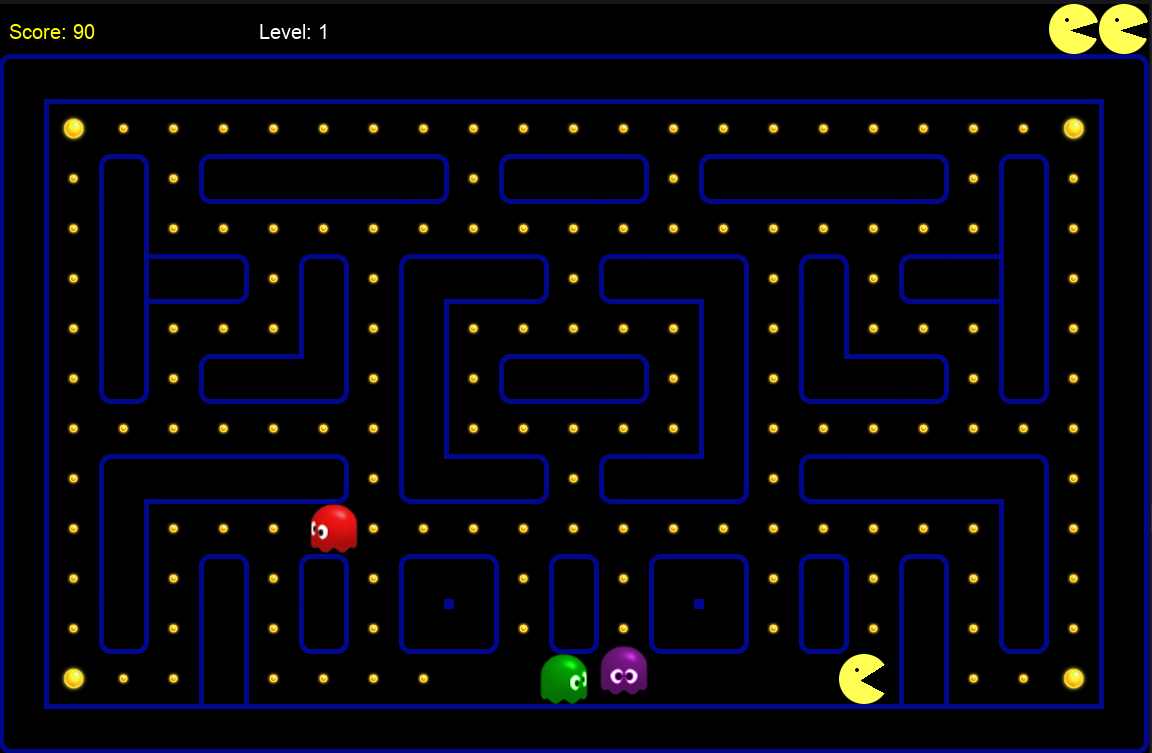
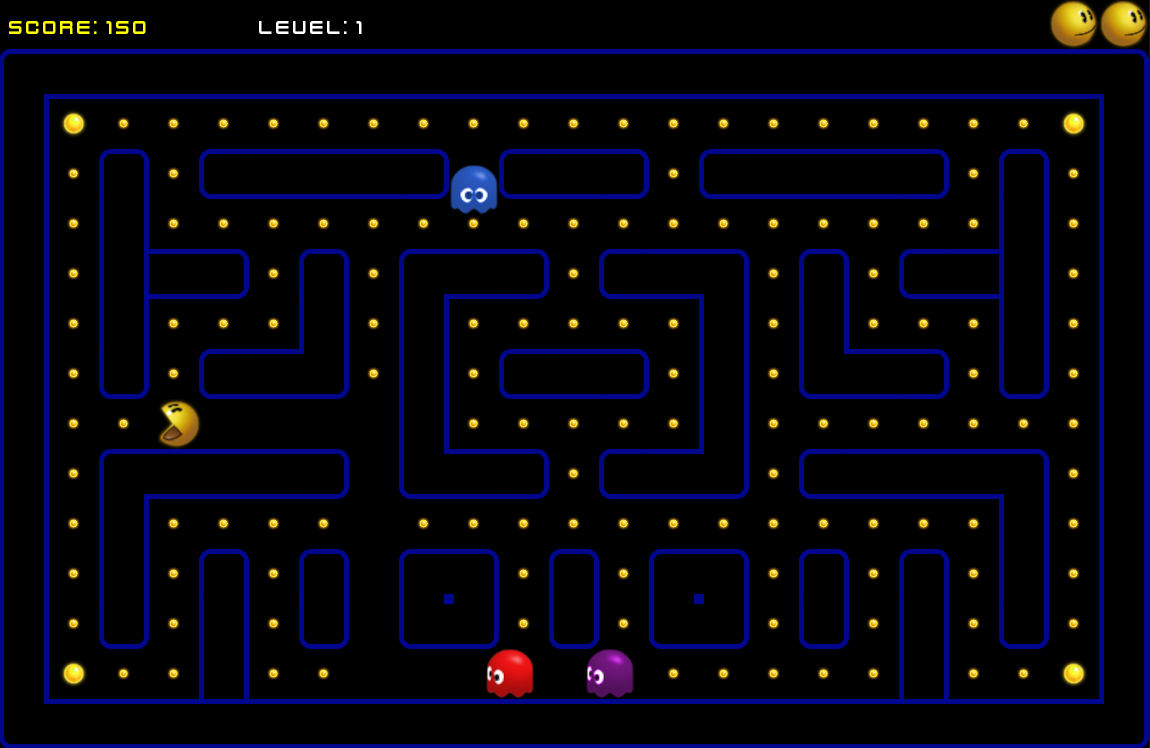
game improvements

diff --git a/helpersAndConstants.py b/helpersAndConstants.py
@@ -4,7 +4,7 @@ import arcade
 # Main settings
 SCREEN_WIDTH = 1150
 SCREEN_HEIGHT = 750
-SCREEN_TITLE = "PyPacman v0.6 dev"
+SCREEN_TITLE = "PyPacman v0.7 dev"
 TILE_SCALING = 1
 TILE_SIZE = 50
 
@@ -13,8 +13,8 @@ STARTING_LEVEL = 1  # 1
 STARTING_SCORE = 0  # 0
 STARTING_AMOUNT_OF_LIVES = 3  # 2
 LAST_GAME_LEVEL = 3
-SCARED_MODE_TIME = 4
-ADD_LIFE_ON_EVERY = 5000
+SCARED_MODE_TIME = 4  # Seconds
+ADD_LIFE_ON_EVERY = 5000  # Score points
 
 # Player settings (default values in comments)
 PLAYER_SCALING = 1  # 1
@@ -31,8 +31,8 @@ ENEMY_SCALING = 1  # 1
 STARTING_AMOUNT_OF_ENEMY = 2  # 2 ( + level number)
 
 # Eyes
-EYES_MOVEMENT_SPEED = 6
-EYES_TTL = 5
+EYES_MOVEMENT_SPEED = 6  # 6
+EYES_TTL = 5  # 5 Seconds
 
 # Score
 SCORE_FOR_GHOST = 150

diff --git a/game.py b/game.py
@@ -587,6 +587,7 @@ class GameView(arcade.View):
                 self.enemy_sprite.direction = eye.direction
                 self.enemy_sprite.center_x = eye.center_x
                 self.enemy_sprite.center_y = eye.center_y
+                self.enemy_sprite.scared_mode = False
                 self.scene.add_sprite("Enemies", self.enemy_sprite)
                 eye.remove_from_sprite_lists()
 

diff --git a/README.md b/README.md
@@ -9,7 +9,7 @@ The screenshot of the game:
 
 ## How to run:
 1. Install required modules
-
+ 
     > *pip install arcade*
 
 2. Run the game:
@@ -18,9 +18,11 @@ The screenshot of the game:
 
 ## TODO list:
 - [x] Enemy moving
-- [ ] Scared mode
+- [x] Scared mode
 - [x] Sound effects
-- [ ] Gameplay
+- [x] Gameplay
 - [ ] Maps
 - [ ] Bonuses
-- [ ] Additional animations
+- [x] Additional animations
+- [ ] View screens graphics
+- [x] Intro screen
